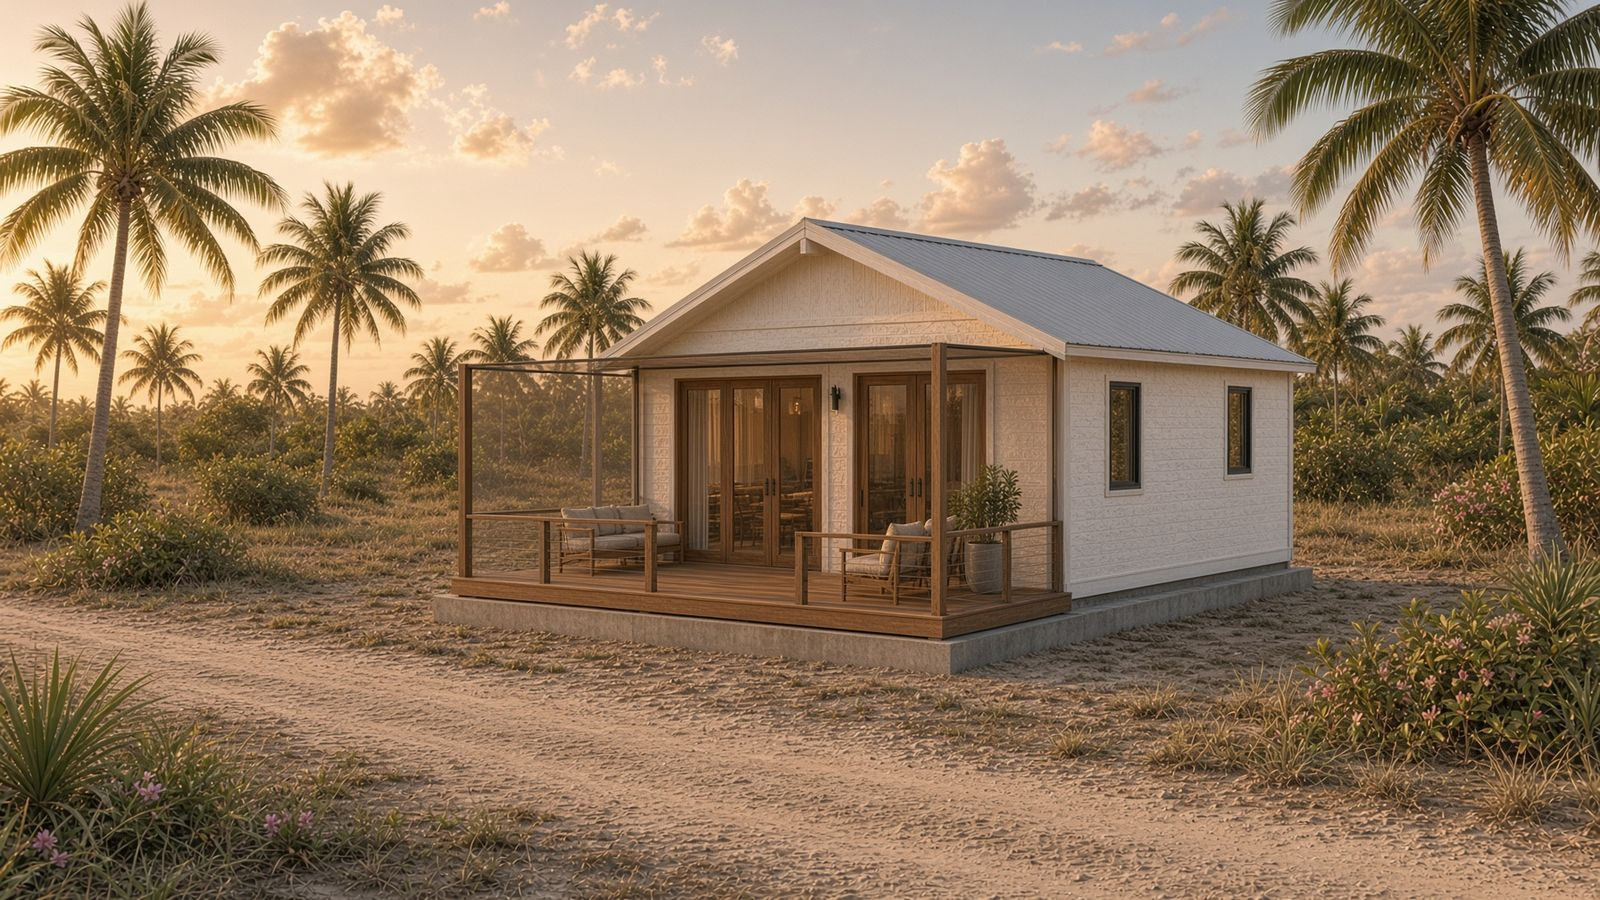
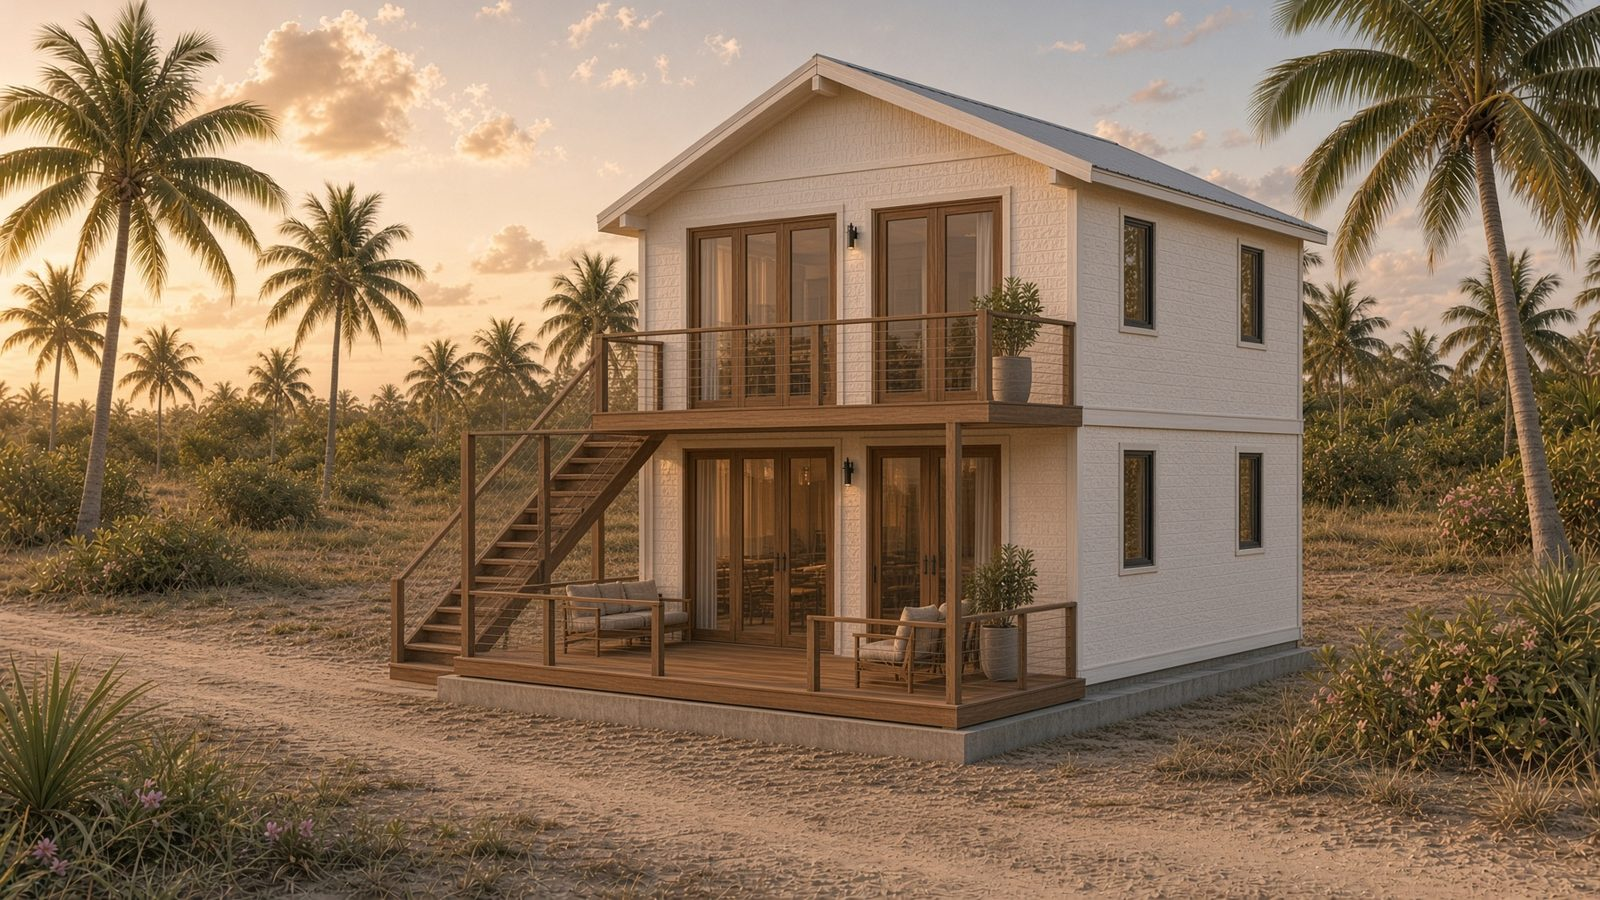
PT200009 is 2 bed / 2 bath; tighter two-story gable thumbnails on both lots.

diff --git a/public/canal-homes/lot-127/index.html b/public/canal-homes/lot-127/index.html
@@ -28,15 +28,15 @@
       <p class="kicker">Lot 127 · inland of the dirt road · looking at Lot 115</p>
       <h1>Across the road from Lot 115. Not on the water.</h1>
       <p class="lede">
-        Featured factory PT200009 — a two-story gable, 2 bed / 1 bath. A different house, not a copy of the canal lot.
+        Featured factory PT200009 — a two-story gable, 2 bed / 2 bath. A different house, not a copy of the canal lot.
         A pale dirt road sits between this lot and Lot 115. The 400 sf mosquito-screened teak porch faces that road
         and looks at the hip-roof neighbor. The canal is behind Lot 115 — hard to see from this porch.
       </p>
       <div class="facts">
-        <div><strong>2 bed / 1 bath</strong><span>Two-story gable · 646 sf</span></div>
+        <div><strong>2 bed / 2 bath</strong><span>Two-story gable · 646 sf</span></div>
         <div><strong>400 sf deck</strong><span>Screened · looks at Lot 115</span></div>
         <div><strong>PT200009</strong><span>Ships in 1 × 40HQ</span></div>
-        <div><strong>$201,715</strong><span>All-in furnished, USD</span></div>
+        <div><strong>$202,035</strong><span>All-in furnished, USD</span></div>
       </div>
     </section>
 
@@ -76,7 +76,7 @@
       <div class="styles">
         <figure class="picked">
           <img src="images/pt200009.jpg" alt="PT200009 two-story gable inland" />
-          <figcaption><strong>PT200009 · Two-story gable</strong>2BR / 1BA · 646 sf<br />$201,715 · featured</figcaption>
+          <figcaption><strong>PT200009 · Two-story gable</strong>2BR / 2BA · 646 sf<br />$202,035 · featured</figcaption>
         </figure>
         <figure>
           <img src="images/pt211222.jpg" alt="PT211222 hip roof inland" />
@@ -108,21 +108,21 @@
     <section id="rooms" class="wrap">
       <p class="kicker">Caribbean Salt interiors</p>
       <h2>Furnished at the factory</h2>
-      <p class="lede">Same furniture family as the canal house. Kit M — one bath — plus $30,000 fully furnished.</p>
+      <p class="lede">Same furniture family as the canal house. Kit L — two baths — plus $30,000 fully furnished.</p>
       <div class="rooms" style="margin-top:24px">
         <figure><img src="images/living.jpg" alt="Living room" /><figcaption>Living</figcaption></figure>
         <figure><img src="images/kitchen.jpg" alt="Kitchen" /><figcaption>Kitchen</figcaption></figure>
         <figure><img src="images/dining.jpg" alt="Dining" /><figcaption>Dining</figcaption></figure>
         <figure><img src="images/bed1.jpg" alt="Primary bedroom" /><figcaption>Primary</figcaption></figure>
         <figure><img src="images/bed2.jpg" alt="Guest bedroom" /><figcaption>Bedroom 2</figcaption></figure>
-        <figure><img src="images/bath.jpg" alt="Bath" /><figcaption>Bath</figcaption></figure>
+        <figure><img src="images/bath.jpg" alt="Bath" /><figcaption>Bath ×2</figcaption></figure>
       </div>
     </section>
 
     <section id="price" class="wrap" style="padding-top:0">
       <aside class="price">
         <p class="kicker">All-in · PT200009 · furnished</p>
-        <p class="num">$201,715</p>
+        <p class="num">$202,035</p>
         <ul>
           <li><span>Factory shell unfurnished</span><span>$26,250</span></li>
           <li><span>Ocean freight (1 / 40HQ)</span><span>$19,000</span></li>
@@ -132,7 +132,7 @@
           <li><span>Contingency</span><span>$20,000</span></li>
           <li><span>400 sf screened deck + fence</span><span>$33,900</span></li>
           <li><span>Stack + set labor</span><span>$13,500</span></li>
-          <li><span>FF&E kit M</span><span>$13,065</span></li>
+          <li><span>FF&E kit L</span><span>$13,385</span></li>
           <li><span>Fully furnished / install</span><span>$30,000</span></li>
         </ul>
       </aside>
@@ -142,7 +142,7 @@
       <div class="wrap">
         <p class="kicker">Bill of quantities · this house</p>
         <h2>Caribbean Salt FF&E</h2>
-        <p class="lede">Bulk millwork and loose pieces, fitted before ship. Kit M plus $30,000 fully furnished.</p>
+        <p class="lede">Bulk millwork and loose pieces, fitted before ship. Kit L plus $30,000 fully furnished.</p>
         <div class="tables">
           <article>
             <h3>Screened deck</h3>
@@ -174,7 +174,7 @@
             </ul>
           </article>
           <article>
-            <h3>Bath ×1</h3>
+            <h3>Bath ×2</h3>
             <ul>
               <li>Rattan mirror <em>CS-MR01</em></li>
               <li>Bath linen set</li>

diff --git a/public/canal-homes/lot-115/styles.css b/public/canal-homes/lot-115/styles.css
@@ -101,7 +101,7 @@ figcaption { margin-top: 8px; font-size: 0.85rem; color: var(--muted); }
 .tables em { font-style: normal; color: var(--teak); font-size: 0.8rem; }
 .note { margin-top: 32px; font-size: 0.85rem; color: var(--muted); max-width: 42rem; }
 .band { background: color-mix(in oklab, var(--salt) 80%, white); }
-.styles { display: grid; grid-template-columns: repeat(auto-fill, minmax(220px, 1fr)); gap: 14px; margin-top: 24px; }
+.styles { display: grid; grid-template-columns: repeat(auto-fill, minmax(260px, 1fr)); gap: 14px; margin-top: 24px; }
 .styles figure { margin: 0; background: var(--surface); border-radius: 14px; overflow: hidden; box-shadow: 0 0 0 1px rgba(28,33,31,0.06); }
 .styles img { aspect-ratio: 16/10; object-fit: cover; }
 .styles figcaption { padding: 12px 14px 16px; font-size: 0.88rem; }

diff --git a/public/canal-homes/lot-127/styles.css b/public/canal-homes/lot-127/styles.css
@@ -101,7 +101,7 @@ figcaption { margin-top: 8px; font-size: 0.85rem; color: var(--muted); }
 .tables em { font-style: normal; color: var(--teak); font-size: 0.8rem; }
 .note { margin-top: 32px; font-size: 0.85rem; color: var(--muted); max-width: 42rem; }
 .band { background: color-mix(in oklab, var(--salt) 80%, white); }
-.styles { display: grid; grid-template-columns: repeat(auto-fill, minmax(220px, 1fr)); gap: 14px; margin-top: 24px; }
+.styles { display: grid; grid-template-columns: repeat(auto-fill, minmax(260px, 1fr)); gap: 14px; margin-top: 24px; }
 .styles figure { margin: 0; background: var(--surface); border-radius: 14px; overflow: hidden; box-shadow: 0 0 0 1px rgba(28,33,31,0.06); }
 .styles img { aspect-ratio: 16/10; object-fit: cover; }
 .styles figcaption { padding: 12px 14px 16px; font-size: 0.88rem; }

diff --git a/public/canal-homes/index.html b/public/canal-homes/index.html
@@ -13,7 +13,7 @@
     <p class="lede">Send each customer only their link. They do not see the other house or price.</p>
     <div class="facts" style="margin-top:28px">
       <div><strong><a href="lot-115/">Lot 115 · canal</a></strong><span>PT211222 · $194,285 furnished</span></div>
-      <div><strong><a href="lot-127/">Lot 127 · inland of the road</a></strong><span>PT200009 · $201,715 furnished</span></div>
+      <div><strong><a href="lot-127/">Lot 127 · inland of the road</a></strong><span>PT200009 · $202,035 furnished</span></div>
     </div>
   </main>
 </body>

diff --git a/src/lib/quote.ts b/src/lib/quote.ts
@@ -324,7 +324,7 @@ export const STYLES: QuoteStyle[] = [
     id: "pt200009",
     sku: "PT200009",
     name: "Two-story gable",
-    beds: "2BR / 1BA",
+    beds: "2BR / 2BA",
     area: "60 m² / 646 sf",
     story: "Two-story",
     look: "Two-story gable",
@@ -335,7 +335,7 @@ export const STYLES: QuoteStyle[] = [
     slab: 22000,
     tie: 2500,
     crane: 3500,
-    kit: "M",
+    kit: "L",
     exterior: {
       image: "/quote/pt200009.jpg",
       title: "Lot 127 · two-story gable",

diff --git a/public/canal-homes/lot-115/index.html b/public/canal-homes/lot-115/index.html
@@ -81,7 +81,7 @@
         </figure>
         <figure>
           <img src="images/pt200009.jpg" alt="PT200009 two-story gable on the canal" />
-          <figcaption><strong>PT200009 · Two-story gable</strong>2BR / 1BA · 646 sf<br />$201,715</figcaption>
+          <figcaption><strong>PT200009 · Two-story gable</strong>2BR / 2BA · 646 sf<br />$202,035</figcaption>
         </figure>
         <figure>
           <img src="images/pt220348-2.jpg" alt="PT220348-2 skillion long on the canal" />
